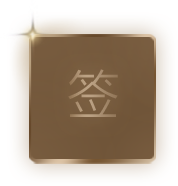
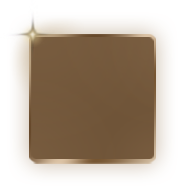
签到页

Changed region(s): [[0.3933, 0.3763, 0.6742, 0.6452], [0.1685, 0.1613, 0.2528, 0.2419]]

diff --git a/myjob/src/views/friends-signIn.vue b/myjob/src/views/friends-signIn.vue
@@ -7,7 +7,7 @@
         <div class="icon"></div>
         <div class="sign-in-text"></div>
         <div class="sign-in-box">
-            <div class="sign-in" 
+            <div class="sign-in" @click="friendSign()"
             v-for="(item,index) in signList" :key="index" :class="'sign-in-'+ (index+1)">
                 <img :src="item.headImage" alt="">
                 <span class="day" :class="'day-' + (index+1)"></span>
@@ -32,8 +32,8 @@
             </div> -->
         </div>
         
-        <div class="click_text" @click="signIn()"></div>
-        <div class="invite_text"></div>
+        <!-- <div class="click_text" @click="signIn()"></div>
+        <div class="invite_text"></div> -->
         <pop v-if="mark" :text1="text" :btnText="btnText" :text2="text2" @btnup="btnup" @close="close"></pop>
     </div>
 </template>
@@ -51,28 +51,18 @@ export default {
     return {
       mark: false,
       text: "",
-      text2: "一起PICK中秋团圆礼",
-      btnText: "赶紧向朋友炫耀",
+      text2: "赢中秋团圆礼",
+      btnText: "我也要抢C位",
       today: "",
       prizeName: "",
-      openId: "1",
+      openId: "11",
+      signOpenId: '22',
       signDateList: [],
       signRecords: []
     };
   },
   created() {
-    //  axios
-    //     .get("http://www.swisse-china.com.cn/swisseweixin/weixin/authorize?encodeTargetUrl=http://www.swisse-china.com.cn/#/signIn")
-    //     .then(function(response) {
-    //       console.log(response);
-    //     })
-    //     .catch(function(error) {
-    //       console.log(error);
-    //     });
-    // this.$get('http://www.swisse-china.com.cn/swisseweixin/weixin/jsApiSign')
-    // .then((response) => {
-    //     console.log(response);
-    //   })
+  
 
     this.getList();
     this.submitUserMsg();
@@ -169,7 +159,7 @@ export default {
           "/qxby/api/sign/addSign",
           qs.stringify({
             openId: this.openId,
-            signOpenId: this.openId,
+            signOpenId: this.signOpenId,
             signDate: this.today
           })
         )
@@ -178,7 +168,8 @@ export default {
           if (response.data.errCode == 0) {
             this.mark = true;
             this.prizeName = response.data.data.prizeName || "";
-            this.text = "恭喜你<br/>喜提" + this.prizeName + "<br/>";
+            this.text = "恭喜你<br/>喜提" + this.prizeName + 
+            "<br/>抢C位，邀请好友打CALL<br/>即可赢得中秋甄选好礼！";
           } else {
             alert(response.data.errMsg);
           }

diff --git a/myjob/src/router/index.js b/myjob/src/router/index.js
@@ -6,6 +6,7 @@ import WinningRecord from '@/views/winningRecord'
 import getstar from '@/views/getstar'
 import friendstar from '@/views/friends-star'
 import rules from '@/views/rules'
+import FriendSignIn from '@/views/friends-signIn'
 
 Vue.use(Router)
 
@@ -20,6 +21,11 @@ const my_router = new Router({
       path: '/signIn',
       name: 'SignIn',
       component: SignIn
+    },
+    {
+      path: '/friendSignIn',
+      name: 'friendSignIn',
+      component: FriendSignIn
     },
     {
       path: '/winningRecord',
